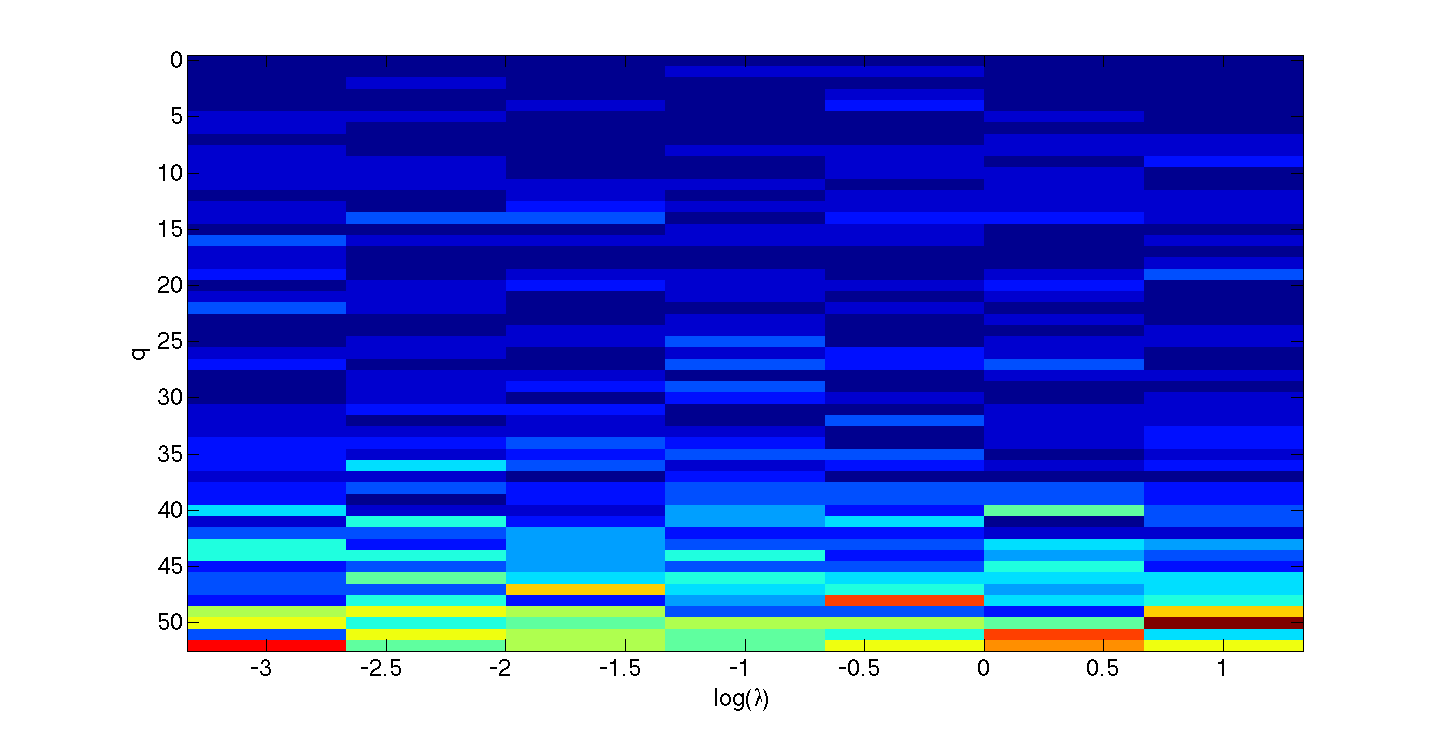
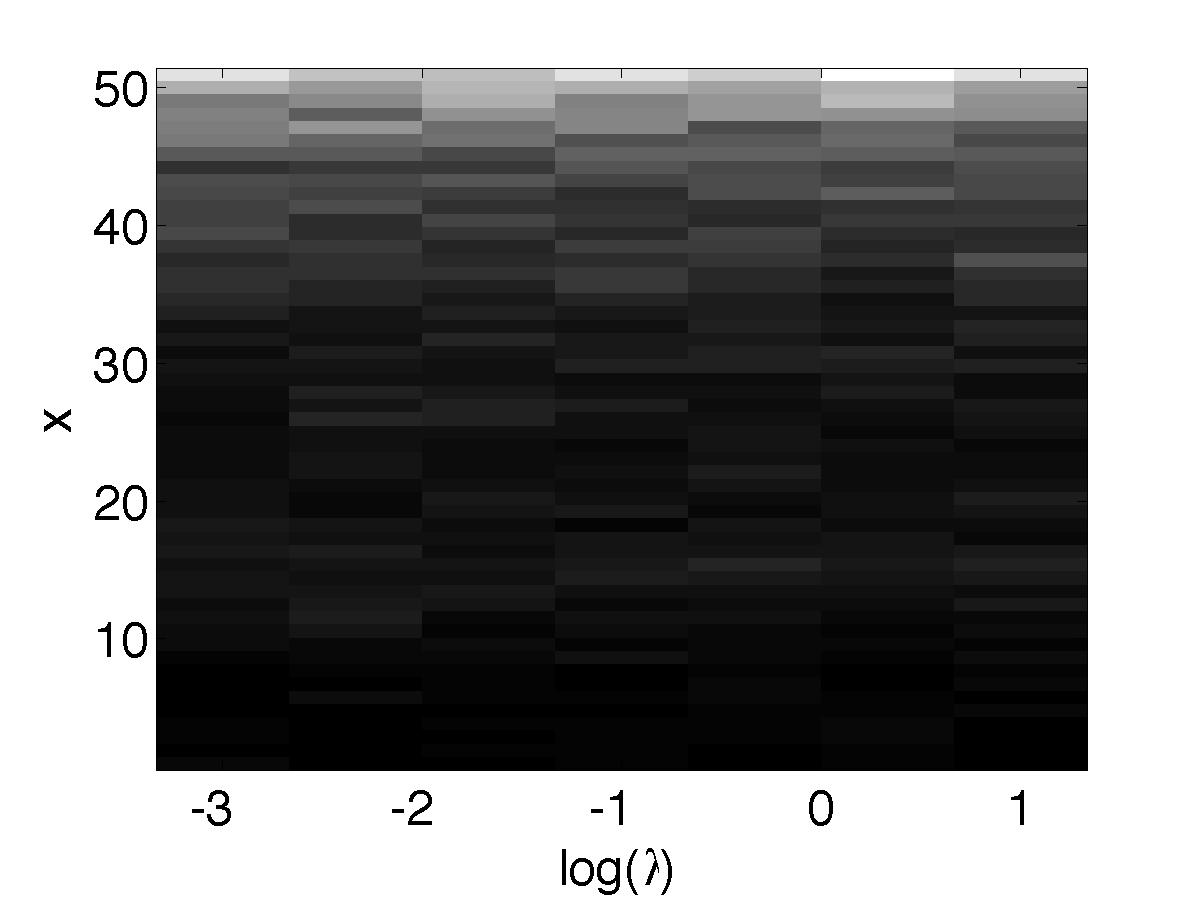
Added all pngs for new versions of spatial figs

diff --git a/evaluate_and_plot_entropy_summary_stat.m b/evaluate_and_plot_entropy_summary_stat.m
@@ -20,7 +20,7 @@ params.Ly = 37; %in y direction
 params.nuc_radius = 10; %radius of nucleus
 params.theta_0 = 0; %initial angle is 0
 
-param_vec = [1.16/2,1.16]; %[0.001, 0.01,0.1,0.5,1,5,10]; %0.5:0.02:0.8; 0.4:0.05:0.8;
+param_vec = [1.16/2,1.16]; %0.4:0.05:0.8; %[0.001, 0.01,0.1,0.5,1,5,10]; %0.5:0.02:0.8; 
 my_length = length(param_vec);
 %my_length = 1;
 
@@ -32,16 +32,16 @@ num_particles = 1000;
 
 for k=1:my_length
     
-    params.nu1 = param_vec(k);
+    params.nu_1 = param_vec(k);
     
     q_distn = summary_statistic_calculator(params,num_particles,0,0);
     q_storage(k,:) = q_distn;
 end
 if plot_option
     figure;
-    imagesc((param_vec),0:52,flipud(q_storage'))
+    imagesc(param_vec,0:52,flipud(q_storage'))
     set(gca, 'fontsize',24);
-    xlabel('\phi');
+    xlabel('\nu_1');
     ylabel('x');
 %     xticklabels =param_vec;
 %     xticks = 1:2;
@@ -52,8 +52,8 @@ if plot_option
     set(gca, 'YTick', yticks, 'YTickLabel', flipud(yticklabels(:)))
     colormap('gray');
     
+    print('Figures_for_writeup/Spatial_distn_half_speed_mutant','-deps');
     print('Figures_for_writeup/Spatial_distn_half_speed_mutant','-dpng');
 end
 toc(total)
-
 end

diff --git a/velocityjump2D_with_nucleus.m b/velocityjump2D_with_nucleus.m
@@ -35,7 +35,9 @@ if nargin ~= 5
     params.nuc_radius = 10; %radius of nucleus
     params.theta_0 = 0; %initial angle is 0
 end
+if with_plot
 rng(493); % set random seed
+end
 
 is_anchored=0; %has RNP reach destination and anchored yet?
 is_attached=1; %is molecular motor attached to the microtubule?
